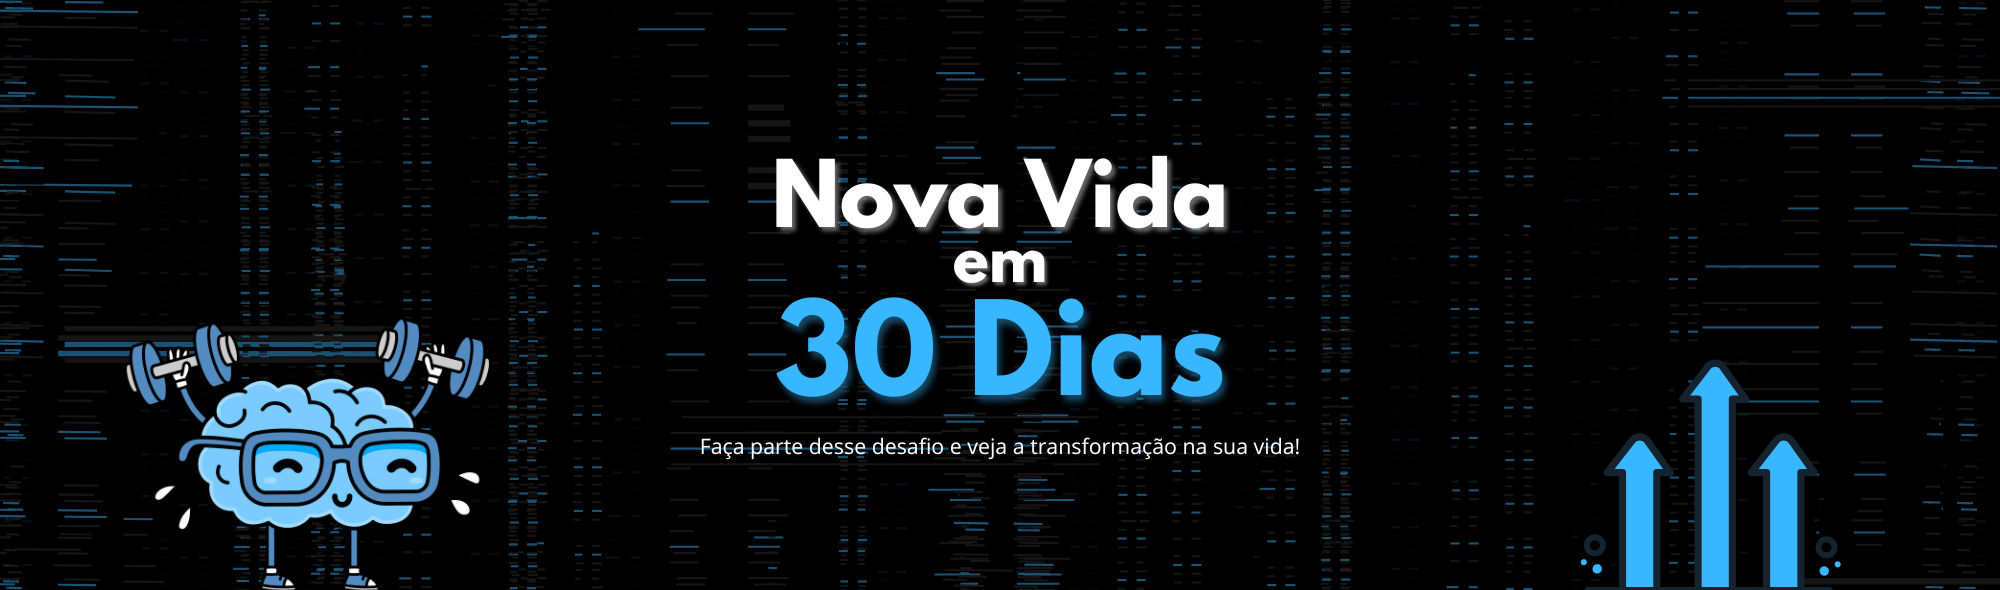
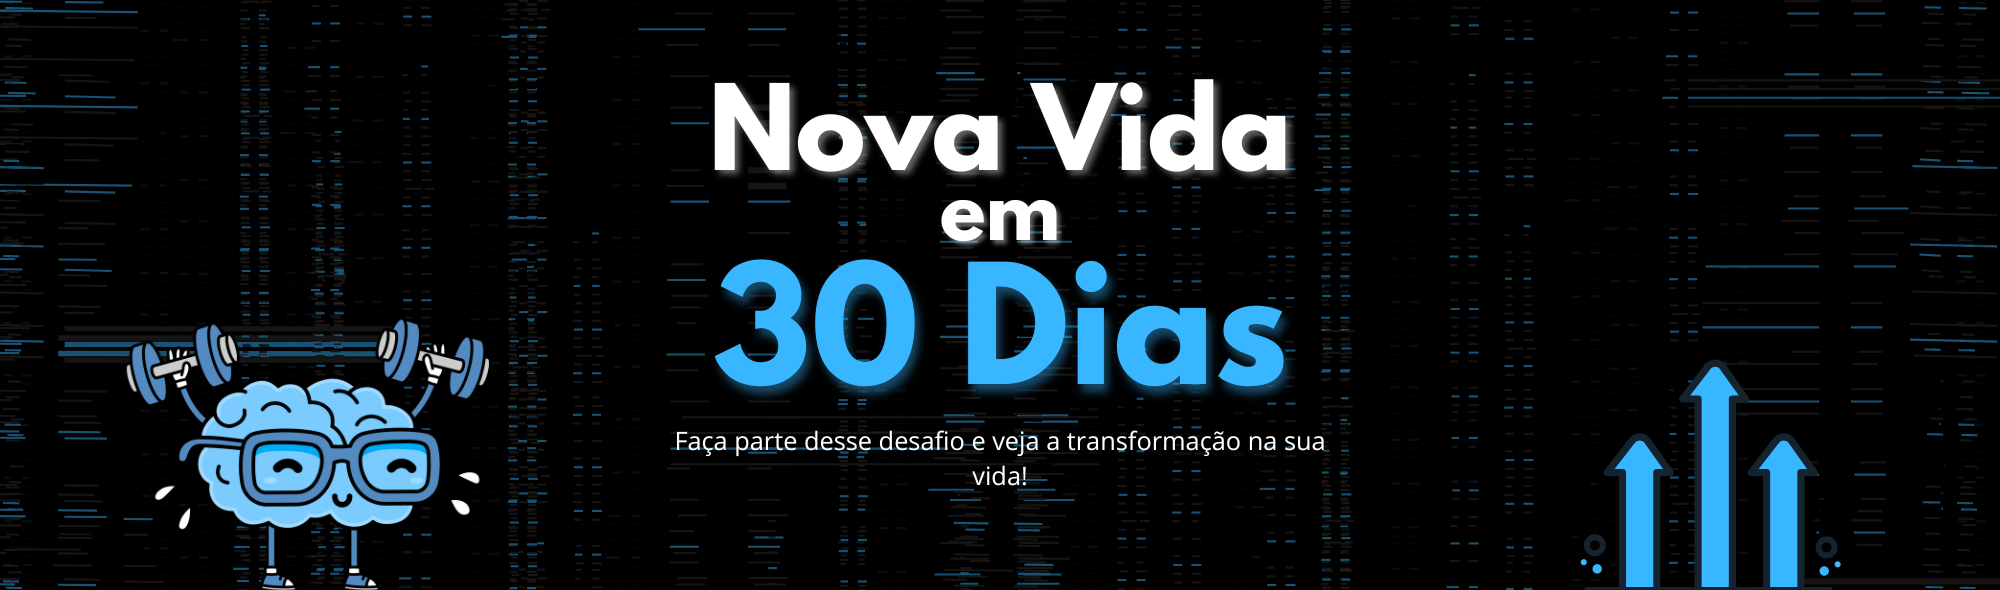
update

Changed region(s): [[0.341, 0.122, 0.651, 0.7017], [0.341, 0.7322, 0.682, 0.8237]]

diff --git a/styles/style.css b/styles/style.css
@@ -3,38 +3,91 @@
 *{
     margin: 0px;
     padding: 0px;
+    max-width: 100%;
+    font-family: 'Gill Sans', 'Gill Sans MT', Calibri, 'Trebuchet MS', sans-serif;
 }
-
+body{
+    background-color: rgb(20, 20, 20);
+    color: white;
+}
 header{
-    background-color: rgb(11, 61, 145);
-    background: linear-gradient(to bottom, rgb(11, 61, 145), rgb(0, 87, 238));
     color: white;
     text-align: center;
-    padding: 20px;
+    padding: 20px 20px 10px 20px;
+    max-width: 100%;
 }
 header h1{
     padding-bottom: 20px;
+    text-shadow: 0px 0px 15px rgba(255, 255, 255, 0.75);
 }
-header h2{
-    padding-bottom: 15px;
+header img{
+    width: 100%;
+    border-radius: 10px;
 }
+
 header nav{
-    
+    padding: 2px;
+    background-color: rgb(20, 61, 194);
+    box-shadow: 0px 0px 5px rgba(0, 0, 0, 0.5);
+    border-radius: 10px;
 }
 header nav > a{
     color: white;
     text-decoration: none;
     text-shadow: 0px 0px 5px rgba(0, 25, 51, 0.75);
     font-weight: bolder;
-    margin-left: 7px;
-    margin-right: 7px;
-    padding: 3px;
+    margin-left: 6px;
+    margin-right: 6px;
+    padding: 5px;
     transition-duration: 0.4s;
 }
 header nav > a:hover{
-    background-color: rgb(122, 122, 255);
-    color: rgb(32, 32, 182);
-    text-shadow: 1px 1px 3px rgba(255, 255, 255, 0.856);
+    background-color: rgb(80, 80, 255);
+    color: rgb(255, 255, 255);
+    text-shadow: 1px 1px 3px rgba(255, 255, 255, 0.7);
+    box-shadow: 0px 0px 5px rgba(0, 0, 0, 0.5);
     border-radius: 7px;
-
+}
+main{
+    padding: 20px;
+}
+section#inicio{
+    text-align: center;
+    display: flex;
+    flex-direction: column;
+}
+section#inicio div{
+    margin: auto;
+    display: flex;
+    flex-direction: row;
+    align-items: center;
+    text-align: left;
+    max-width: 80%;
+    padding: 25px 10px;
+}
+section#inicio div img{
+    width: 250px;
+}
+section#inicio div p{
+    font-size: 1.2em;
+    max-width: 400px;
+}
+.buybutton{
+    margin: auto;
+    text-decoration: none;
+    display: flex;
+    justify-content: center;
+    align-items: center;
+    font-weight: bolder;
+    color: white;
+    background: linear-gradient(to bottom, rgb(0, 123, 255), rgb(15, 74, 136));
+    box-shadow: 0px 0px 15px rgba(49, 149, 255, 0.623);
+    width: 200px;
+    height: 50px;
+    border-radius: 15px;
+    transition-duration: 0.4s;
+}
+.buybutton:hover{
+    background: linear-gradient(to bottom, rgb(0, 93, 192), rgb(10, 49, 90));
+    text-shadow: 0px 0px 10px rgba(255, 255, 255, 0.7);
 }

diff --git a/index.html b/index.html
@@ -8,8 +8,8 @@
 </head>
 <body>
     <header>
-        <h1>Transforme sua Vida em Apenas 30 Dias com Hábitos Simples e Eficazes!</h1>
-        <h2>Descubra como melhorar sua produtividade e desenvolver novos hábitos com um plano prático de desenvolvimento pessoal</h2>
+       <h1>Transforme sua Vida em Apenas 30 Dias com Hábitos Simples e eficazes!</h1>
+       <img src="images/ImgDeskNV30D.png" alt="">
         <nav>
             <a href="#">Início</a>
             <a href="#">O E-Book</a>
@@ -19,12 +19,15 @@
         </nav>
     </header>
     <main>
-        <section>
-            <h3>Transforme sua Vida em 30 Dias!</h3>
-            <img src="images/MockupNV30D.png" alt="Capa do E-Book">
-            <p>
-                O e-book do Desafio Nova Vida em 30 Dias oferece um plano estruturado para ajudá-lo a transformar seus hábitos e aumentar sua produtividade. Ao longo de 30 dias, você será guiado em etapas simples para criar uma rotina saudável, melhorar o foco e conquistar seus objetivos.
-            </p>
+        <section id="inicio">
+            <h2>Transforme sua Vida em 30 Dias!</h2>
+            <div>
+                <img src="images/MockupNV30DCut.png" alt="Capa do E-Book">
+                <p>
+                 O e-book do Desafio Nova Vida em 30 Dias oferece um plano estruturado para ajudá-lo a transformar seus hábitos e aumentar sua produtividade. Ao longo de 30 dias, você será guiado em etapas simples para criar uma rotina saudável, melhorar o foco e conquistar seus objetivos.
+             </p>
+            </div>  
+            <a href="https://pay.kiwify.com.br/116UrMa" target="_blank" class="buybutton">BAIXE AQUI</a>
         </section>
         <section>
 
